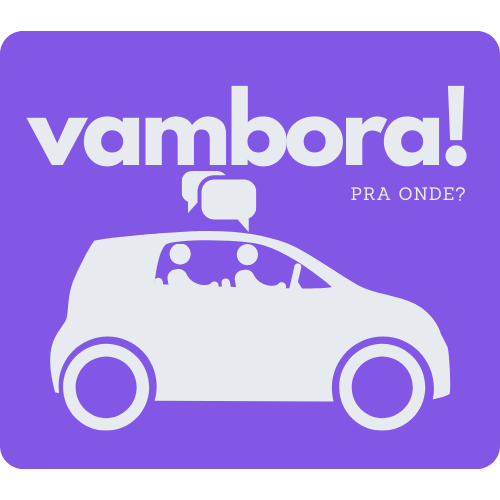
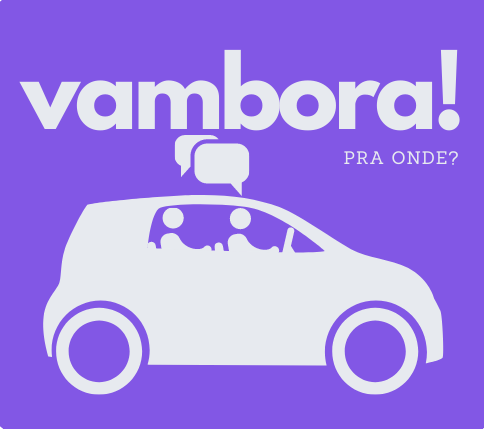
ajustes imagens

diff --git a/index.html b/index.html
@@ -75,7 +75,7 @@
                                 <div class="tecnologia blue shadow-home-content-card">React</div>
                                 <div class="tecnologia red shadow-home-content-card">CSS</div>
                             </div>
-                            <div>
+                            <div class="project-image-container">
                                 <img class="project-image" src="./assets/TodoReact.png" alt="Imagem de Projeto">
                             </div>
                             <div class="vizualization">
@@ -96,7 +96,7 @@
                                 <div class="tecnologia blue shadow-home-content-card">React Native</div>
                                 <div class="tecnologia red shadow-home-content-card">Local Storage</div>
                             </div>
-                            <div>
+                            <div class="project-image-container">
                                 <img class="project-image" src="./assets/remediario.png" alt="Imagem de Projeto">
                             </div>
                             <div class="vizualization">
@@ -118,8 +118,8 @@
                                 <div class="tecnologia blue shadow-home-content-card">React Native</div>
                                 <div class="tecnologia red shadow-home-content-card">Firebase</div>
                             </div>
-                            <div>
-                                <img class="project-image" src="./assets/vambora.png" alt="Imagem de Projeto">
+                            <div class="project-image-container">
+                                <img class="project-image" src="./assets/vambora2.jpg" alt="Imagem de Projeto">
                             </div>
                             <div class="vizualization">
                                 <a target="_blank" href="https://github.com/fga-eps-mds/2022-2-Vambora"

diff --git a/css/style.css b/css/style.css
@@ -224,6 +224,7 @@ li {
 
 .card-h3 {
     font-size: 28px;
+    font-weight: 600;
 }
 
 .tecnologias {
@@ -252,10 +253,17 @@ li {
 }
 
 .project-image {
-    max-width: 312px;
-    max-height: 270px;
-    border-radius: 18px;
-    margin-top: 20px;
+    width: 100%;
+    height: 100%;
+    object-fit: cover;
+}
+
+.project-image-container {
+    margin-top: 15px;
+    width: 312px;
+    height: 312px;
+    border-radius: 35px;
+    overflow: hidden;
 }
 
 .github {
@@ -387,7 +395,7 @@ li {
     align-items: center;
     flex-wrap: wrap;
     gap: 20px;
-    padding: 15px 15px 0 20px;
+    padding: 15px 15px 0 15px;
     color: white;
 }
 
